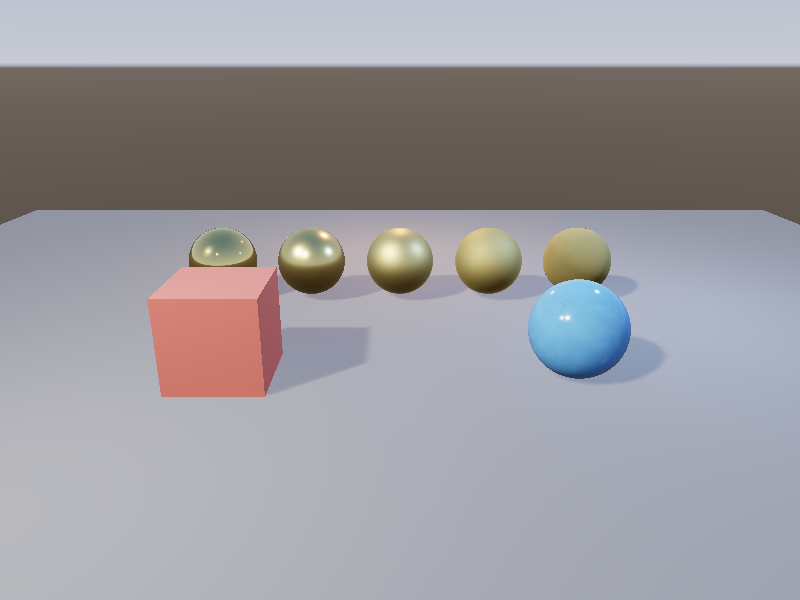
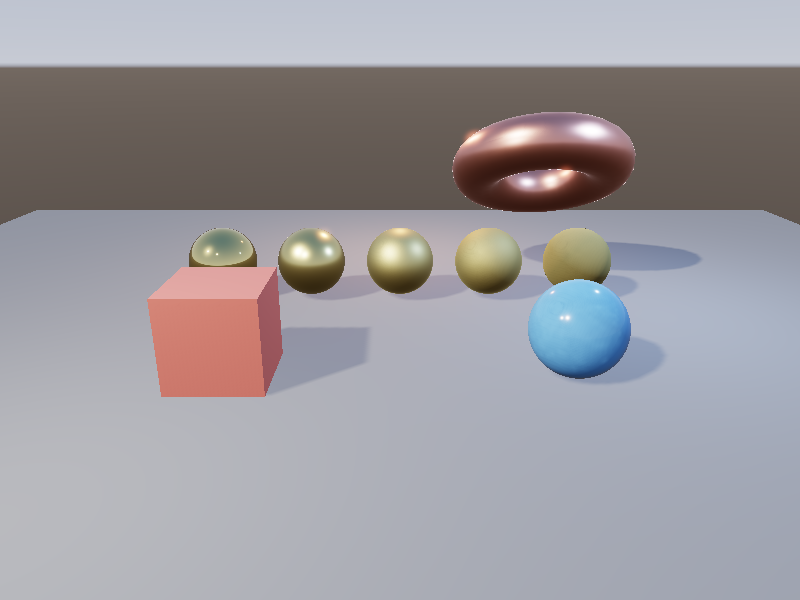
Import glTF scenes into the world at startup
The instantiate half of the importer gets its wiring: every .gltf and
.glb under assets/models parses, builds its textures, materials and
models, and spawns its node hierarchy under a root entity that converts
glTF's +Y-up to this scene's -Y-up with a half-turn roll - a rotation
rather than a mirror, so winding survives. One bad file logs its reason
and does not take down the files beside it or the procedural scene.

The demo gains a copper torus that exercises the whole path in CI's
smoke test on every run: it is a self-contained text glTF (buffer as a
base64 data URI), so the clean-checkout-ships-no-binary-assets rule
holds while the import path stops being code that only tests run. It
shows up shaded, environment-lit and casting a shadow like everything
else, because by the time entities exist the renderer neither knows nor
cares where they came from.

Recorded alongside: imported scenes do not survive a save/load round
trip, since MeshRenderer handles are runtime-only - which is exactly the
stable-reference problem the Phase 6 asset database exists to solve. The
roadmap's headline moves to the Phase 5 editor: imported content now
exists, and it wants an inspector.

Changed region(s): [[0.5625, 0.18, 0.8125, 0.36], [0.75, 0.39, 0.875, 0.45], [0.6562, 0.39, 0.6875, 0.45]]

diff --git a/src/core/Application.cpp b/src/core/Application.cpp
@@ -1,5 +1,6 @@
 #include "core/Application.hpp"
 
+#include "assets/GltfLoader.hpp"
 #include "core/Log.hpp"
 #include "core/Time.hpp"
 #include "platform/CameraController.hpp"
@@ -25,6 +26,7 @@
 
 #include <algorithm>
 #include <array>
+#include <filesystem>
 #include <stdexcept>
 
 namespace ege {
@@ -538,6 +540,8 @@ namespace ege {
             sun.attach<DirectionalLight>(sunLight);
         }
 
+        importGltfModels();
+
         EGE_INFO(
             "Scene loaded: {} entities, {} drawn, {} lights, {} materials",
             world.entityCount(),
@@ -546,6 +550,46 @@ namespace ege {
             materials.size());
 
         verifySceneRoundTrip();
+    }
+
+    void Application::importGltfModels() {
+        namespace fs = std::filesystem;
+
+#ifdef EGE_ASSET_ROOT
+        const fs::path modelDirectory = fs::path{EGE_ASSET_ROOT} / "models";
+#else
+        const fs::path modelDirectory = fs::path{"assets"} / "models";
+#endif
+
+        std::error_code errorCode;
+        if (!fs::is_directory(modelDirectory, errorCode)) {
+            return;
+        }
+
+        for (const fs::directory_entry& entry : fs::directory_iterator{modelDirectory}) {
+            const fs::path& path = entry.path();
+            const std::string extension = path.extension().string();
+            if (extension != ".gltf" && extension != ".glb") {
+                continue;
+            }
+
+            // One bad file should not take down the ones beside it, or the
+            // procedural scene it would have joined.
+            try {
+                const GltfSceneData scene = gltf::parseFile(path.string());
+                const gltf::ImportStats stats = gltf::instantiate(
+                    device, world, scene, *materialPool, *materialSetLayout, path.stem().string());
+                EGE_INFO(
+                    "Imported {}: {} entities, {} meshes, {} materials, {} textures",
+                    path.filename().string(),
+                    stats.entities,
+                    stats.meshes,
+                    stats.materials,
+                    stats.textures);
+            } catch (const std::exception& error) {
+                EGE_ERROR("{}", error.what());
+            }
+        }
     }
 
     void Application::verifySceneRoundTrip() {

diff --git a/src/core/Application.hpp b/src/core/Application.hpp
@@ -31,6 +31,11 @@ namespace ege {
     private:
         void loadScene();
 
+        // Imports every .gltf/.glb under assets/models, if the directory
+        // exists. The demo ships none - dropping a file there is how content
+        // gets in until the asset database gives imports a real home.
+        void importGltfModels();
+
         // Round-trips the scene through the serializer at start-up, which keeps
         // save and load exercised by every run rather than only by the tests.
         void verifySceneRoundTrip();

diff --git a/docs/ROADMAP.md b/docs/ROADMAP.md
@@ -4,7 +4,7 @@
 >
 > **Status: Phases 0, 1 and 3 complete. Phase 2 essentially complete. Phase 4 partially complete. Phases 5 and 6 not started.**
 >
-> Each phase below carries an outcome note listing exactly what landed and what did not. The **frame graph** — for several updates the single most valuable outstanding item — is done, along with Vulkan 1.3, dynamic rendering, the **complete HDR pipeline** (float target → bloom → ACES), **image-based lighting** from a procedurally generated sky, and a **sun with PCF-filtered shadows** rendered through the graph. The highest-value next items are **glTF import** — the track that unlocks real content — then **MSAA**, shadow cascades, and the Phase 5 editor, which the renderer is now visually good enough to justify.
+> Each phase below carries an outcome note listing exactly what landed and what did not. The **frame graph** — for several updates the single most valuable outstanding item — is done, along with Vulkan 1.3, dynamic rendering, the **complete HDR pipeline** (float target → bloom → ACES), **image-based lighting** from a procedurally generated sky, a **sun with PCF-filtered shadows** rendered through the graph, and **glTF 2.0 import** with materials, textures and hierarchy. The renderer now has every Phase 4 pillar except anti-aliasing and shadow refinements; the highest-value next item is the **Phase 5 editor**, with the **Phase 6 asset database** close behind — imported content now exists and wants stable references and an inspector.
 
 ## 1. Where the project stands today
 
@@ -317,11 +317,13 @@ Separating shading from display transform exposed a bug that had been shipping s
 
 **Directional sun shadows landed** as the frame graph's first depth-only pass: a `DirectionalLight` component, a fixed-size D32 transient rendered from the sun's orthographic view, and a 3×3 PCF test through a comparison sampler whose border compares as lit. The pass declares a depth write, the scene pass declares a sampled read, and every barrier between them is derived — the first feature to land as exactly the `addPass` call the graph was built to make cheap. Acne is handled by polygon-offset bias at raster time, not by fudging the lighting shader. Known simplification, promoted from groundwork to roadmap item: the sun frustum is a fixed box sized to the demo floor; cascaded shadow maps fitted to the view frustum replace it when scenes outgrow one box.
 
+**glTF 2.0 import landed**, split deliberately into a CPU parse and a GPU instantiate. `assets/GltfLoader` (cgltf) reads meshes, metallic-roughness materials with their textures, and the node hierarchy — each local TRS decomposed into the engine's YXZ Euler convention, verified by a decompose-recompose test — and the instantiate half builds `Texture`/`Material`/`Model` objects and spawns entities under a root that carries the +Y-up→-Y-up correction as a half-turn roll, preserving winding. Any `.gltf`/`.glb` in `assets/models/` imports at startup; the demo gains a copper torus that is itself a self-contained text glTF, so a clean checkout still ships no binary asset and CI exercises the import path on every run. The parse half is pinned by unit tests against an embedded asset — accessors, generated normals, material factors, color-space policy, hierarchy — with no device anywhere. Imported scenes still don't survive a save/load round trip, because `MeshRenderer` handles are runtime-only; giving them stable references is precisely the Phase 6 asset database's job, along with cooked caches so imports stop re-parsing source on every run.
+
 *Not done:*
 
 - **Cascaded** shadow maps for the sun, **cube shadow maps for point lights**, and spot shadows.
 - **MSAA/FXAA/TAA** — unblocked by the graph; MSAA in particular is multisampled attachments plus a resolve, which is exactly the attachment management the graph owns.
-- **glTF 2.0 import** — still OBJ and procedural primitives only. Independent of the renderer work, so it can be done at any time; it pairs naturally with the Phase 6 asset database, which is what gives imported meshes and textures stable references.
+- **Tangents from glTF** — the shader still derives its tangent frame from screen-space derivatives; imported tangents fix mirrored UVs when textured assets arrive in numbers.
 - **Instancing** — the draw list is sorted and ready for it, but nothing merges consecutive identical draws yet.
 
 One bug worth recording, found by looking at the output rather than by the build passing: the default metallic-roughness texture was `(1, 1, 0)`, read as "fully rough, non-metal". But metallic samples from blue and is *multiplied* by `metallicFactor`, so a zero there forced every material to be a dielectric regardless of its factor, and the metal spheres shaded as diffuse plastic. Fallback textures have to be the multiplicative identity.

diff --git a/README.md b/README.md
@@ -30,8 +30,13 @@ derived by the frame graph rather than written by hand.
 Bright highlights bloom through a half-resolution blur chain, composited in
 linear light before the ACES tonemap.
 
-Still to come: cascaded and point-light shadows, anti-aliasing, glTF import,
-the editor, C++ scripting and physics.
+The copper torus is a **glTF import**: any `.gltf`/`.glb` dropped into
+`assets/models/` is parsed, its materials and textures built, and its node
+hierarchy spawned as entities at startup. The demo's torus is itself a
+self-contained text glTF, so the no-binary-assets rule still holds.
+
+Still to come: cascaded and point-light shadows, anti-aliasing, the editor,
+C++ scripting and physics.
 [`docs/ROADMAP.md`](docs/ROADMAP.md) lays out the plan and tracks, per phase,
 exactly what has landed and what has not.
 
@@ -91,9 +96,10 @@ src/
   core/         application root, logging, assertions, time, job system
   reflect/      runtime type information
   platform/     window and input; everything touching GLFW
+  assets/       glTF import (cgltf); grows into the asset database in Phase 6
   rhi/          device, swapchain, pipeline, buffer, descriptors, textures, frame graph
   render/       renderer, model, camera, materials, lights, bounds,
-                environment lighting, PBR, skybox and post-process systems
+                environment lighting, PBR, shadows, skybox, bloom and post-process
   scene/        world, entities, component pools, components, hierarchy, serialization
 shaders/        GLSL, compiled to SPIR-V into the build tree
 assets/         runtime assets, resolved via EGE_ASSET_ROOT
